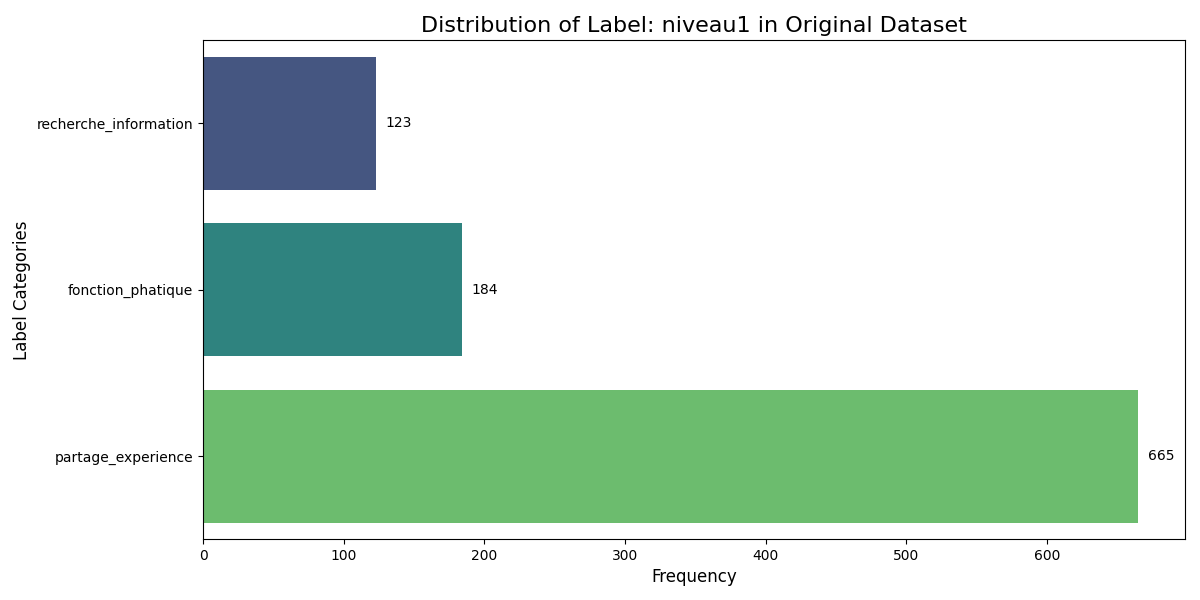
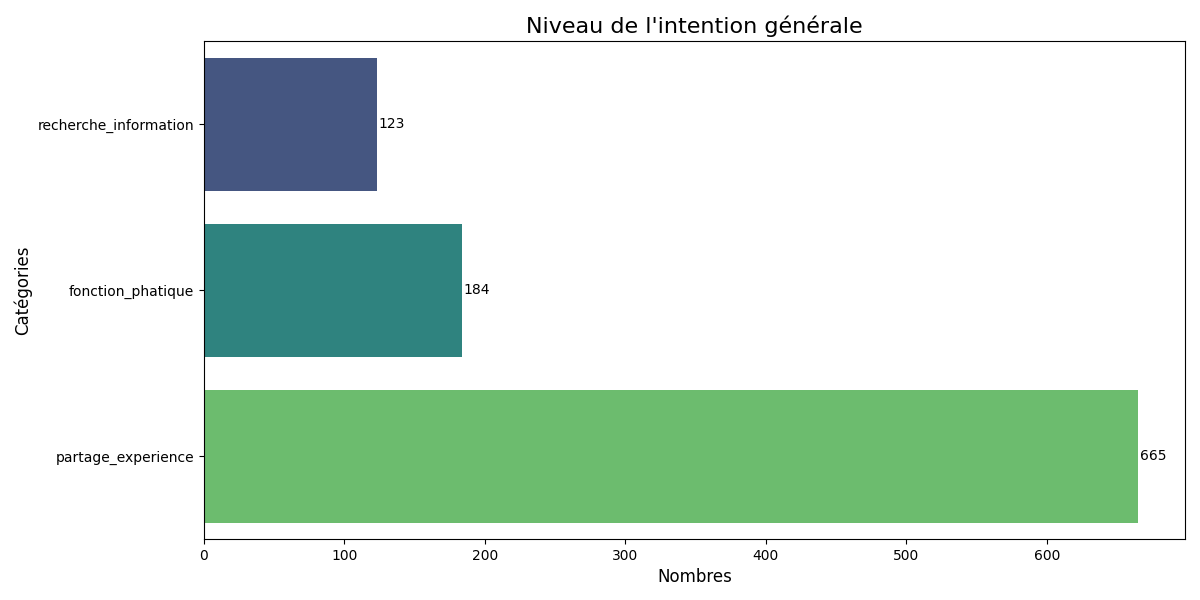
ajout requirement

diff --git a/src/read_dataset.py b/src/read_dataset.py
@@ -4,27 +4,25 @@ import numpy as np
 import matplotlib.pyplot as plt
 import seaborn as sns
 
-# Load CSV file
+# Charger le fichier CSV
 file_path = 'data/projet_annotation_sante_final_M1.csv'
 try:
     df = pd.read_csv(file_path)
-    print(f"Successfully loaded '{file_path}'. Shape: {df.shape}")
+    print(f"Le fichier '{file_path}' a été chargé avec succès. Dimensions : {df.shape}")
 except FileNotFoundError:
-    print(f"Error: '{file_path}' not found. Please ensure the file is uploaded to your Colab environment.")
+    print(f"Erreur : Le fichier '{file_path}' n'a pas été trouvé. Veuillez vous assurer que le fichier est bien présent dans votre environnement Colab.")
     exit()
 
-# Check and handle potential NaN values
+# Vérifier et gérer les valeurs NaN potentielles
 nan_cols = df.isnull().sum()
 nan_cols = nan_cols[nan_cols > 0]
 if not nan_cols.empty:
-    print("\nColumns with NaN values before handling:")
+    print("\nColonnes avec des valeurs NaN avant traitement :")
     print(nan_cols)
     df = df.fillna('NA_CATEGORY')
-    print("NaN values have been replaced with 'NA_CATEGORY'.")
+    print("Les valeurs NaN ont été remplacées par 'NA_CATEGORY'.")
 else:
-    print("\nNo NaN values found in the dataset.")
-
-
+    print("\nAucune valeur NaN n'a été trouvée dans le jeu de données.")
 
 
 label_col1 = 'niveau1' 
@@ -34,34 +32,42 @@ label_col3 = 'niveau3'
 
 for col in [label_col1, label_col2, label_col3]:
     if col not in df.columns:
-        print(f"Error: Label column '{col}' not found in the DataFrame. Please check your CSV column names.")
+        print(f"Erreur : La colonne de libellé '{col}' est introuvable dans le DataFrame. Veuillez vérifier les noms des colonnes de votre fichier CSV.")
         exit()
-# Analyze original data label distribution before splitting 
-print("\n--- Analyzing Original Dataset Label Distribution ---")
+
+# Définir les titres pour chaque graphique
+plot_titles = {
+    label_col1: 'Niveau de l\'intention générale',
+    label_col2: 'Niveau de l\'objet médical',
+    label_col3: 'Niveau d\'analyse de sentiment'
+}
+
+# Analyser la distribution des libellés dans le jeu de données original
+print("\n--- Analyse de la distribution des libellés du jeu de données original ---")
 label_cols_to_plot = [label_col1, label_col2, label_col3]
 
 for col in label_cols_to_plot:
     plt.figure(figsize=(12, 6))
     
-    # Count the frequency of each label
-    label_counts = df[col].astype(str).value_counts().sort_values(ascending=True)  # Horizontal charts are usually sorted from bottom to top
+    # Compter la fréquence de chaque libellé
+    label_counts = df[col].astype(str).value_counts().sort_values(ascending=True)
     
-    # Horizontal bar chart
-    sns.barplot(y=label_counts.index, x=label_counts.values, palette='viridis')
+    # Créer le graphique à barres horizontal
+    ax = sns.barplot(y=label_counts.index, x=label_counts.values, palette='viridis')
     
-    # Add title and labels
-    plt.title(f'Distribution of Label: {col} in Original Dataset', fontsize=16)
-    plt.xlabel('Frequency', fontsize=12)
-    plt.ylabel('Label Categories', fontsize=12)
+    # Ajouter les titres, les étiquettes des axes et les chiffres sur les barres
+    plt.title(plot_titles.get(col, f'Distribution des catégories : {col}'), fontsize=16)
+    plt.xlabel('Nombres', fontsize=12)
+    plt.ylabel('Catégories', fontsize=12)
     
-    # Display specific values on the bar chart
+    # Ajouter les valeurs numériques sur les barres
     for index, value in enumerate(label_counts.values):
-        plt.text(value + max(label_counts.values)*0.01, index, str(value), va='center')
-    
-    plt.tight_layout()
-    plt.savefig(f'schema/distribution_{col}.png') # Save the plot
-    plt.close() # Close the plot to free up memory
+        plt.text(value + 1, index, str(value), va='center')
 
-print("Original dataset label distribution analysis complete. Proceeding with data splitting.")
+    plt.tight_layout()
+    plt.savefig(f'schema/distribution_{col}.png')
+    plt.close()
+
+print("L'analyse de la distribution des libellés est terminée. La suite du code de division des données peut être exécutée.")
 
 
